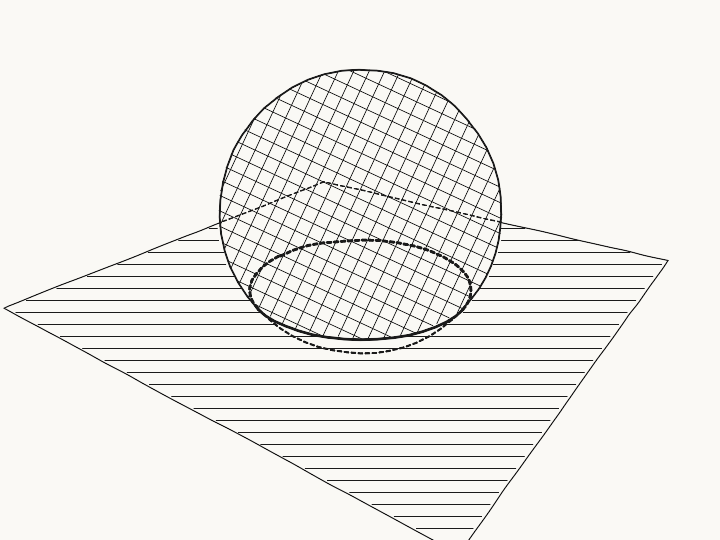
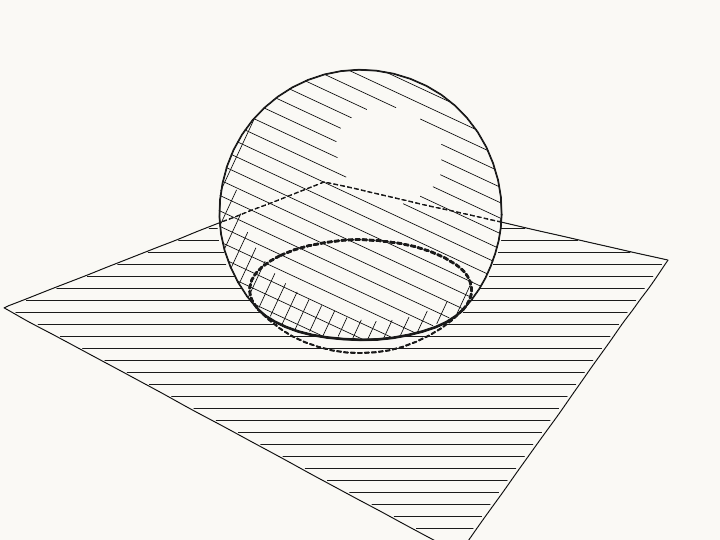
theme 2 fixes

diff --git a/src/scene/scene.ts b/src/scene/scene.ts
@@ -6,7 +6,7 @@
 // Deferred (need intersection curves / more machinery, §2.5): `scene.intersect`
 // and `scene.highlight` from the design sketch are not implemented yet.
 
-import type { Camera, Vec2, Vec3 } from "../math/types.js";
+import type { Camera, Hit, Vec2, Vec3 } from "../math/types.js";
 import type { ElementId, Light, RenderStroke, Stroke } from "../pipeline/types.js";
 import type { FeatureSource } from "./feature-source.js";
 import type { SampleOptions } from "../curve/sample.js";
@@ -25,7 +25,7 @@ import {
 } from "../primitives/intersection.js";
 import { classifyScene, isOccluded, sceneScale } from "../pipeline/visibility.js";
 import { emitStyledStroke, resolveStyle, ROLE_STYLE } from "../pipeline/style.js";
-import { defaultHatch, type HatchStrategy } from "../pipeline/hatch.js";
+import { defaultHatch, hatchAngles, type HatchStrategy } from "../pipeline/hatch.js";
 import { defaultWobble, type WobbleStrategy } from "../pipeline/wobble.js";
 import { applyAbstraction, quantizeTone } from "../pipeline/abstract.js";
 import { renderStrokesSVG } from "../backend/svg.js";
@@ -33,8 +33,6 @@ import { unproject } from "../math/camera.js";
 import { distance, normalize } from "../math/vec3.js";
 import { EPS_DEPTH_REL } from "../curve/epsilon.js";
 
-const HATCH_WEIGHT = 0.7;
-const HATCH_OPACITY = 0.55;
 const HATCH_STEP_PX = 4; // sample spacing when clipping a hatch line to visibility
 
 export interface SceneOptions {
@@ -145,17 +143,26 @@ export class Scene {
     }
 
     const hatchStrokes: RenderStroke[] = [];
+    const lightDir = normalize(this.light.direction);
     for (const el of this.elements) {
       const spec = this.resolveSpec(el.id);
       if (!spec.hatch) continue;
       const levels = this.abstraction.toneLevels ?? 0;
+      const hstyle = { weight: spec.hatchWeight, color: spec.color, opacity: spec.hatchOpacity };
       for (const region of el.source.hatchRegions(cam, this.light)) {
         const tone = levels > 0 ? quantizeTone(region.tone, levels) : region.tone;
-        const shaped = { ...region, mode: spec.hatch.mode, angle: spec.hatch.angle, tone };
-        const segs = this.hatch.generate(shaped, spec.hatch.spacingPx != null ? { spacingPx: spec.hatch.spacingPx } : {});
-        for (const seg of segs) {
-          for (const run of clipHatchToVisible(seg, el.source, cam, sources, scale)) {
-            hatchStrokes.push({ path: run, style: { weight: HATCH_WEIGHT, color: spec.color, opacity: HATCH_OPACITY } });
+        const spacingOpts = spec.hatch.spacingPx != null ? { spacingPx: spec.hatch.spacingPx } : {};
+        // Tonal layering: draw one angle set per layer, each clipped to the part
+        // of the surface dark enough for that layer, so curved surfaces shade
+        // light→dark (flat faces get a uniform number of layers). §2.6
+        const angles = hatchAngles(spec.hatch.mode, spec.hatch.angle);
+        for (let layer = 0; layer < angles.length; layer++) {
+          const maxDiffuse = layerBrightness(layer, angles.length);
+          const single = { ...region, mode: "single" as const, angle: angles[layer]!, tone };
+          for (const seg of this.hatch.generate(single, spacingOpts)) {
+            for (const run of clipHatchTonal(seg, el.source, cam, sources, scale, lightDir, maxDiffuse)) {
+              hatchStrokes.push({ path: run, style: { ...hstyle } });
+            }
           }
         }
       }
@@ -173,26 +180,37 @@ export class Scene {
   }
 }
 
-/** The front surface point seen at a pixel on the owner source, or null. The
- *  depth floor is relative to scene scale (matches the QI self-hit skip). */
-function surfacePoint(source: FeatureSource, cam: Camera, pt: Vec2, scale: number): Vec3 | null {
+/** The front surface hit (point + normal) seen at a pixel on the owner source,
+ *  or null. The depth floor is relative to scene scale (matches the QI self-hit
+ *  skip). */
+function surfaceHit(source: FeatureSource, cam: Camera, pt: Vec2, scale: number): Hit | null {
   const hits = source.raycast(unproject(cam, pt));
   const floor = EPS_DEPTH_REL * scale;
-  for (const h of hits) if (h.t > floor) return h.point;
+  for (const h of hits) if (h.t > floor) return h;
   return null;
 }
 
+/** Brightness ceiling for tonal layer `i` of `n`: layer 0 covers all but the
+ *  brightest highlight, deeper layers only progressively darker surface. */
+function layerBrightness(i: number, n: number): number {
+  return 0.95 * ((n - i) / n);
+}
+
 /**
- * Split a hatch segment into the runs that are actually visible: on the owner's
- * front surface and not occluded by anything nearer. This is what makes hatching
- * stop at occlusion boundaries and its gaps reveal what is behind (§2.6).
+ * Split a hatch segment into the runs that survive both tests, sampled along the
+ * segment: (1) visible — on the owner's front surface and not occluded by
+ * anything nearer (gaps reveal what is behind, §2.6); (2) dark enough — the local
+ * Lambert term N·L is below `maxDiffuse`, which is what shades curved surfaces
+ * light→dark across the tonal layers.
  */
-function clipHatchToVisible(
+function clipHatchTonal(
   seg: readonly [Vec2, Vec2],
   owner: FeatureSource,
   cam: Camera,
   sources: readonly FeatureSource[],
   scale: number,
+  lightDir: Vec3,
+  maxDiffuse: number,
 ): Vec2[][] {
   const [a, b] = seg;
   const len = Math.hypot(b[0] - a[0], b[1] - a[1]);
@@ -202,9 +220,13 @@ function clipHatchToVisible(
   for (let i = 0; i <= k; i++) {
     const t = i / k;
     const pt: Vec2 = [a[0] + (b[0] - a[0]) * t, a[1] + (b[1] - a[1]) * t];
-    const p3 = surfacePoint(owner, cam, pt, scale);
-    const visible = p3 !== null && !isOccluded(p3, cam, sources, scale);
-    if (visible) run.push(pt);
+    const hit = surfaceHit(owner, cam, pt, scale);
+    let keep = false;
+    if (hit && !isOccluded(hit.point, cam, sources, scale)) {
+      const diffuse = Math.max(0, -(hit.normal[0] * lightDir[0] + hit.normal[1] * lightDir[1] + hit.normal[2] * lightDir[2]));
+      keep = diffuse < maxDiffuse;
+    }
+    if (keep) run.push(pt);
     else {
       if (run.length >= 2) runs.push(run);
       run = [];

diff --git a/test/scene.test.ts b/test/scene.test.ts
@@ -70,6 +70,15 @@ describe("Scene hatching", () => {
     expect(hatchOf(scene.render(front).renderStrokes)).toHaveLength(0);
   });
 
+  test("hatch weight/opacity are style-driven and overridable", () => {
+    const scene = new Scene();
+    scene.add(sphere([0, 0, 0], 2)).style({ hatch: { mode: "single", angle: 0, spacingPx: 18 }, hatchWeight: 0.4, hatchOpacity: 0.9 });
+    const hatch = hatchOf(scene.render(front).renderStrokes);
+    expect(hatch.length).toBeGreaterThan(0);
+    expect(hatch[0]!.style.weight).toBeCloseTo(0.4);
+    expect(hatch[0]!.style.opacity).toBeCloseTo(0.9);
+  });
+
   test("a hatched sphere fills its disk, clipped to the silhouette", () => {
     const scene = new Scene();
     scene.add(sphere([0, 0, 0], 2)).style({ hatch: { mode: "single", angle: 0, spacingPx: 18 } });
@@ -100,5 +109,22 @@ describe("Scene hatching", () => {
     occluded.add(sphere([0, 0, 2], 1.2)); // sits in front, covering the middle
 
     expect(totalLength(occluded)).toBeLessThan(totalLength(far));
+  });
+
+  test("tonal shading: a dark-lit sphere hatches more than a bright-lit one", () => {
+    const totalLength = (scene: Scene) => {
+      let sum = 0;
+      for (const s of hatchOf(scene.render(front).renderStrokes))
+        for (let i = 1; i < s.path.length; i++)
+          sum += Math.hypot(s.path[i]![0] - s.path[i - 1]![0], s.path[i]![1] - s.path[i - 1]![1]);
+      return sum;
+    };
+    // light travelling toward −z lights the camera-facing front (bright, sparse);
+    // travelling toward +z leaves the front in shadow (dark, dense).
+    const bright = new Scene({ light: { direction: [0, 0, -1] } });
+    bright.add(sphere([0, 0, 0], 1)).style({ hatch: { mode: "triple", angle: 0, spacingPx: 10 } });
+    const dark = new Scene({ light: { direction: [0, 0, 1] } });
+    dark.add(sphere([0, 0, 0], 1)).style({ hatch: { mode: "triple", angle: 0, spacingPx: 10 } });
+    expect(totalLength(dark)).toBeGreaterThan(totalLength(bright) * 1.5);
   });
 });

diff --git a/test/strategies.test.ts b/test/strategies.test.ts
@@ -40,6 +40,24 @@ describe("WobbleStrategy is pluggable", () => {
     expect(maxDev(big)).toBeGreaterThan(maxDev(small) * 3);
   });
 
+  test("two strokes sharing a 3-D vertex join (same offset) under one seed", () => {
+    const w = createWobble();
+    const shared: [number, number, number] = [2, 1, 0.5];
+    const seed = 4242;
+    // both strokes pass through the shared point, which projects to (50,50)
+    const a = w.apply({ path: [[10, 10], [50, 50]], points3: [[0, 0, 0], shared], seed, amount: 0.8 });
+    const b = w.apply({ path: [[50, 50], [90, 12]], points3: [shared, [5, 0, 0]], seed, amount: 0.8 });
+    expect(a[a.length - 1]).toEqual(b[0]); // the shared vertex lands at the same wobbled point
+  });
+
+  test("different seeds do not join (independent fields)", () => {
+    const w = createWobble();
+    const shared: [number, number, number] = [2, 1, 0.5];
+    const a = w.apply({ path: [[10, 10], [50, 50]], points3: [[0, 0, 0], shared], seed: 1, amount: 0.8 });
+    const b = w.apply({ path: [[50, 50], [90, 12]], points3: [shared, [5, 0, 0]], seed: 2, amount: 0.8 });
+    expect(a[a.length - 1]).not.toEqual(b[0]);
+  });
+
   test("defaultWobble matches createWobble() defaults", () => {
     const straight: Vec2[] = Array.from({ length: 21 }, (_, i) => [i * 4, 0] as Vec2);
     const pts3 = straight.map((_, i) => [i * 4, 0, 0] as [number, number, number]);

diff --git a/src/pipeline/hatch.ts b/src/pipeline/hatch.ts
@@ -26,7 +26,9 @@ export interface HatchOptions {
 
 const DEG = Math.PI / 180;
 
-function anglesForMode(mode: HatchMode, angleDeg: number): number[] {
+/** The hatch angle set for a mode: 1 (single), 2 (cross), or 3 (triple) angles.
+ *  Also used by the scene to draw one *tonal layer* per angle. */
+export function hatchAngles(mode: HatchMode, angleDeg: number): number[] {
   switch (mode) {
     case "single":
       return [angleDeg];
@@ -133,7 +135,7 @@ export function generateHatch(region: HatchRegion, opts: HatchOptions = {}): Seg
   const poly = region.outline.kind === "polyline" ? dedupClose(pts) : pts;
 
   const segments: Segment[] = [];
-  for (const angleDeg of anglesForMode(region.mode, region.angle)) {
+  for (const angleDeg of hatchAngles(region.mode, region.angle)) {
     const a = angleDeg * DEG;
     const dir: Vec2 = [Math.cos(a), Math.sin(a)];
     const normal: Vec2 = [-Math.sin(a), Math.cos(a)];

diff --git a/src/pipeline/style.ts b/src/pipeline/style.ts
@@ -34,6 +34,10 @@ export interface StyleSpec {
   hiddenDash: number[];
   visibleDash?: number[];
   hatch: HatchSpec | null;
+  /** stroke weight of hatch lines */
+  hatchWeight: number;
+  /** opacity of hatch lines (kept < 1 so cross-hatch layers read as tone) */
+  hatchOpacity: number;
 }
 
 export type StyleOverride = Partial<StyleSpec>;
@@ -48,6 +52,8 @@ export const BASE_STYLE: StyleSpec = {
   ghostOpacity: 0.32,
   hiddenDash: [4, 3],
   hatch: null,
+  hatchWeight: 0.7,
+  hatchOpacity: 0.55,
 };
 
 /** Role-driven default overrides (§2.8: context is quieter, subject is bolder). */

diff --git a/src/pipeline/wobble.ts b/src/pipeline/wobble.ts
@@ -27,9 +27,9 @@ const FREQUENCY = 3.1;
 const WOBBLE_STEP_PX = 6;
 
 /** Peak per-axis screen offset (px) at wobble = 1 for the spatial field. */
-const SPATIAL_AMPLITUDE_PX = 1.9;
+const SPATIAL_AMPLITUDE_PX = 2.7;
 /** Spatial-noise cycles per world unit. */
-const SPATIAL_FREQUENCY = 1.7;
+const SPATIAL_FREQUENCY = 2.1;
 
 /** FNV-1a string hash → uint32, for turning a stroke identity into a seed. */
 export function hashSeed(s: string): number {

diff --git a/ai/ROADMAP.md b/ai/ROADMAP.md
@@ -25,10 +25,13 @@ renders. Before Phase 2 we are hardening Phase 1 — the ordered backlog:
    no magic numbers remain outside that module. The QI grazing/cusp safety-net now
    scans at a screen-relative resolution (~`SCAN_STEP_PX` px), with its miss bound
    documented; transversal boundaries stay exact via analytic crossings.
-2. ⬜ **Visual fidelity.** Coherent wobble that joins strokes at shared vertices
-   (no gaps where a ruling meets a rim); per-patch hatch tone so curved surfaces
-   shade light→dark instead of a flat single tone; hatch spacing and line-weight
-   refinement.
+2. ✅ **Visual fidelity.** Wobble is now a seeded 3-D noise field keyed on the
+   object-space point (per element), so strokes sharing a vertex — a ruling and
+   its rim, a cone's generators at the apex — receive the same offset and join
+   exactly. Hatching shades curved surfaces light→dark via tonal layering (each
+   angle set clipped to the surface region dark enough for it; flat faces stay
+   uniform). Hatch weight/opacity are style-driven. `wobble`/`hatch` remain
+   pluggable strategies.
 3. ⬜ **Feature gaps**, in order: cylinder/cone surface hatching (§2.6) →
    `scene.highlight` (§2.8) → `Point` primitive (§2.3) → cross-primitive
    consolidation (§2.7) → quadric ∩ quadric quartics (§2.5) → torus (§2.3).

diff --git a/ai/DESIGN.md b/ai/DESIGN.md
@@ -75,9 +75,12 @@ catalog are implemented and tested. What exists, by area (✅ done · 🚧 parti
 - ✅ **Numerical hygiene** (Phase-1 polish 1): every tolerance is centralized and
   documented in `curve/epsilon.ts`; the QI grazing/cusp scan is screen-relative
   with a documented miss bound.
-- ⬜ **Phase-1 polish remaining:** visual fidelity (coherent wobble joins,
-  per-patch hatch tone), cross-primitive consolidation, cylinder/cone surface
-  hatching, quadric ∩ quadric quartics, `scene.highlight`, torus.
+- ✅ **Visual fidelity** (Phase-1 polish 2): coherence-preserving wobble (seeded
+  3-D field keyed on the object-space point, per element) so strokes join at
+  shared vertices; per-patch hatch tone via tonal layering so curved surfaces
+  shade light→dark while flat faces stay uniform; style-driven hatch weight/opacity.
+- ⬜ **Phase-1 polish remaining:** cross-primitive consolidation, cylinder/cone
+  surface hatching, quadric ∩ quadric quartics, `scene.highlight`, torus.
 
 All nine Phase-1 build-order steps (§2.9) are implemented end to end.
 